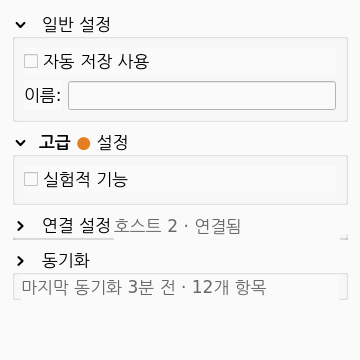
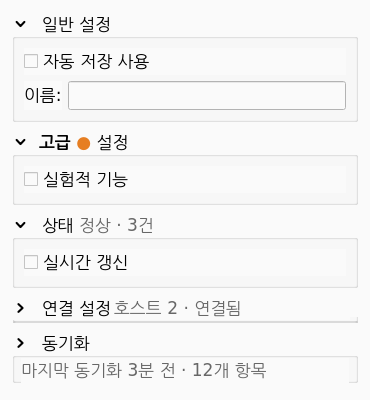
README 데모 이미지·사용법을 SummaryAlways 포함 현재 모양으로 갱신
- docs/demo.png 를 셰브론/HTML 제목/요약 3모드(항상·접힘옆·접힘안쪽) 화면으로 교체
- 사용법 예제에 SummaryAlways 그룹 추가해 데모 화면과 1:1 일치

diff --git a/README.md b/README.md
@@ -25,7 +25,7 @@ pip install PyQt5      # 또는 PySide6 / PySide2 / PyQt6
 ## 사용법
 
 기존 `QGroupBox` 를 쓰던 코드에서 **클래스 이름만 바꾸면** 된다.
-아래는 위 데모 화면(일반 / HTML 제목 / 요약 옆 / 요약 안쪽)을 그대로 만드는 코드다.
+아래는 위 데모 화면(일반 / HTML 제목 / 항상 요약 / 접힘 요약 옆 / 접힘 요약 안쪽)을 그대로 만드는 코드다.
 
 ```python
 from collapsible_groupbox import CollapsibleGroupBox
@@ -42,14 +42,21 @@ general.collapsedChanged.connect(print)      # 접힘 상태 변화 알림
 advanced = CollapsibleGroupBox("<b>고급</b> <font color='#e67e22'>●</font> 설정")
 QVBoxLayout(advanced).addWidget(QCheckBox("실험적 기능"))
 
-# 3) 접었을 때 제목 오른쪽에 요약 표시 (기본: SummaryBeside)
+# 3) 펼침·접힘 모두 제목 오른쪽에 요약 표시 (SummaryAlways)
+status = CollapsibleGroupBox("상태")
+QVBoxLayout(status).addWidget(QCheckBox("실시간 갱신"))
+status.setSummaryEnabled(True)
+status.setSummary("정상 · 3건")
+status.setSummaryPosition(CollapsibleGroupBox.SummaryAlways)
+
+# 4) 접었을 때만 제목 오른쪽에 요약 표시 (기본: SummaryBeside)
 conn = CollapsibleGroupBox("연결 설정")
 QVBoxLayout(conn).addWidget(QCheckBox("자동 재연결"))
 conn.setSummaryEnabled(True)
 conn.setSummary("호스트 2 · 연결됨")
 conn.setCollapsed(True)
 
-# 4) 접었을 때 박스 안쪽 줄에 요약 표시 (SummaryInside)
+# 5) 접었을 때 박스 안쪽 줄에 요약 표시 (SummaryInside)
 sync = CollapsibleGroupBox("동기화")
 QVBoxLayout(sync).addWidget(QCheckBox("백그라운드 동기화"))
 sync.setSummaryEnabled(True)